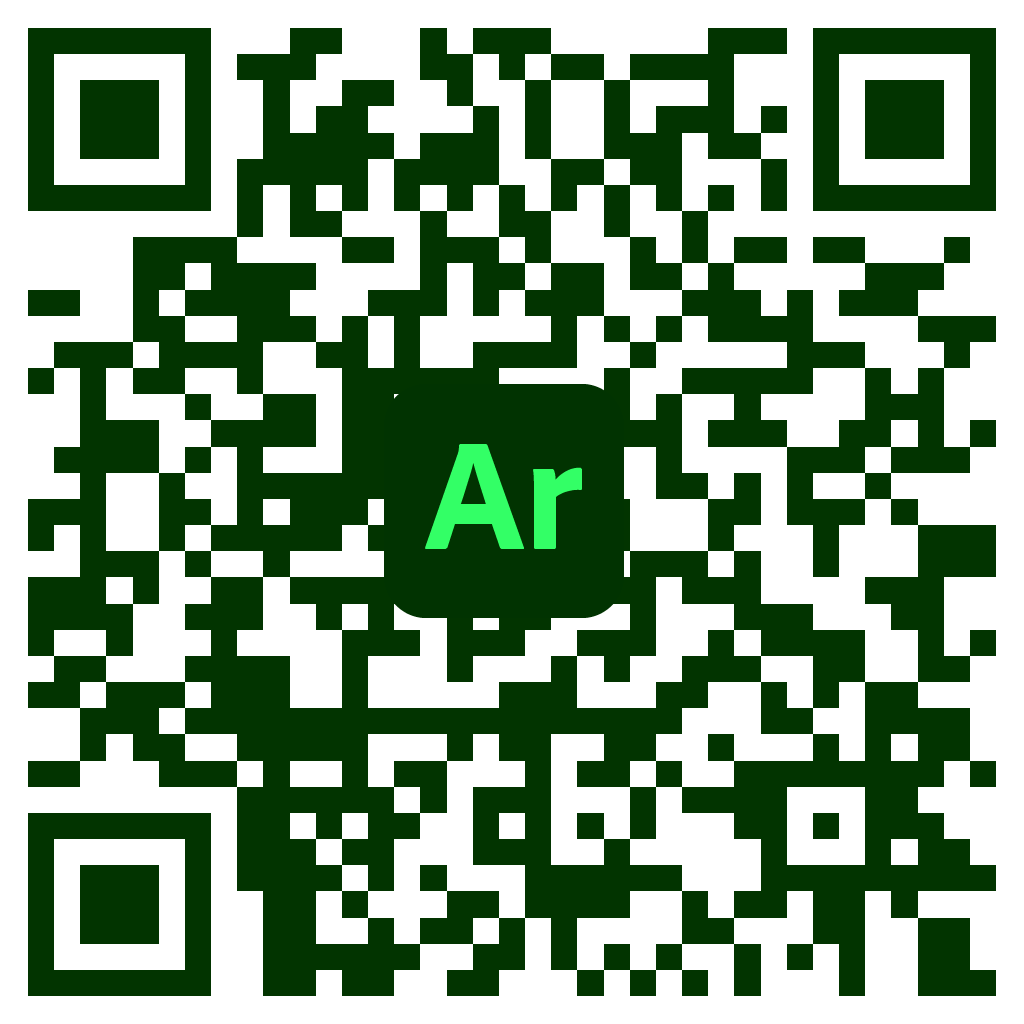
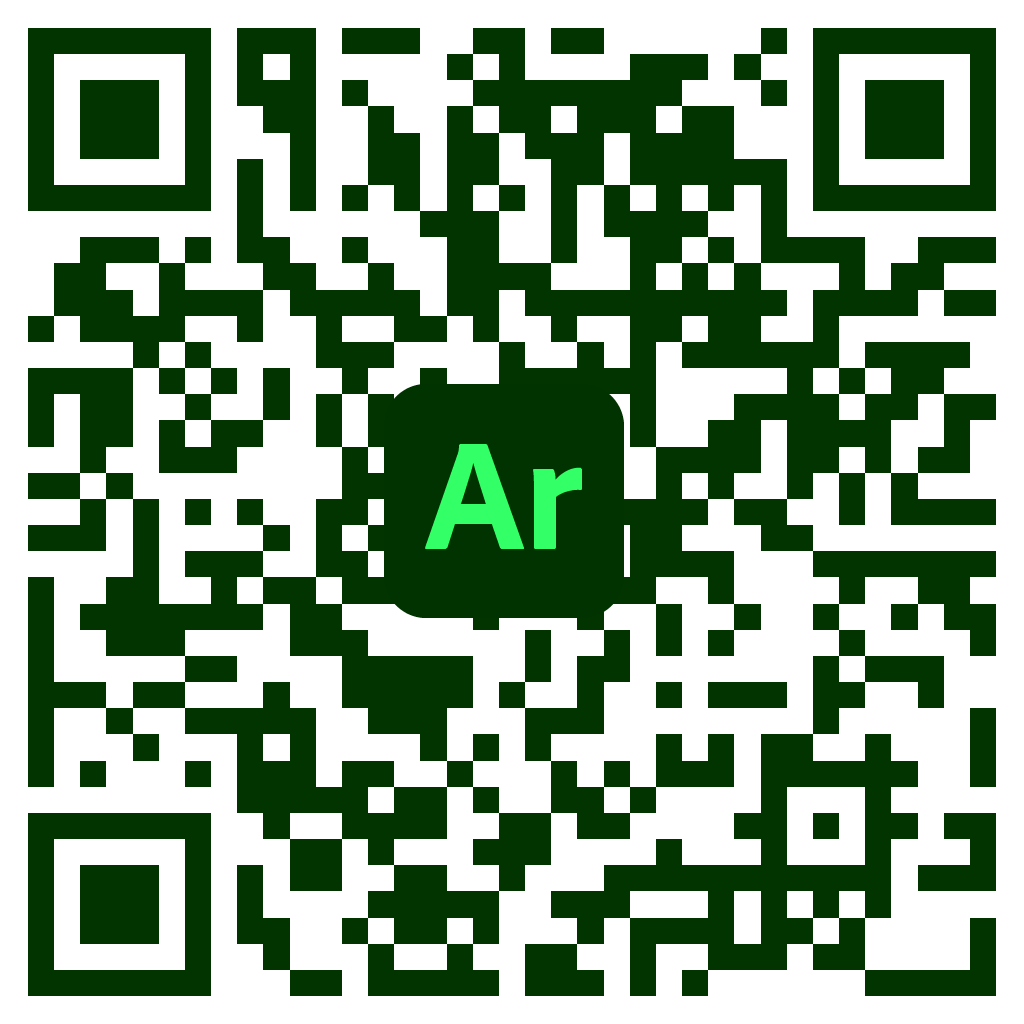
Update experience URLs

diff --git a/s3_photoExample.js b/s3_photoExample.js
@@ -68,23 +68,23 @@ function imageClicked(url)
 
     if(url.includes(encodeURI("AeroSphere QR Code")))
     {
-        experienceURL = escape("https://adobeaero.app.link/jPAS09i8Fcb");
+        experienceURL = escape("https://adobeaero.app.link/tvIM6g5nHcb");
     }
     else if(url.includes(encodeURI("BoomBoxTop")))
     {
-        experienceURL = escape("https://adobeaero.app.link/aQzJWCylBcb");
+        experienceURL = escape("https://adobeaero.app.link/SOxiJqPoHcb");
     }
     else if(url.includes(encodeURI("ElwayAutograph")))
     {
-        experienceURL = escape("https://adobeaero.app.link/ujyyMgMkBcb");
+        experienceURL = escape("https://adobeaero.app.link/MFEdjcWoHcb");
     }
     else if(url.includes(encodeURI("MickeyMantle")))
     {
-        experienceURL = escape("https://adobeaero.app.link/mNW1KegHzcb");     
+        experienceURL = escape("https://adobeaero.app.link/TmROaTToHcb");     
     }
     else if(url.includes(encodeURI("Ultimaker")))
     {
-        experienceURL = escape("https://adobeaero.app.link/jCcj3e6lBcb");
+        experienceURL = escape("https://adobeaero.app.link/RZtJbuMoHcb");
     }
 
 
